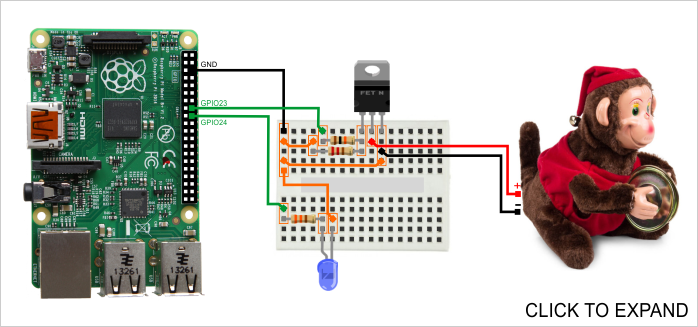
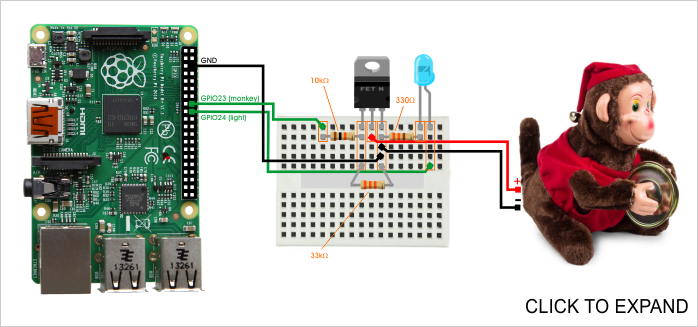
add LED parts to BOM, update diagram

diff --git a/www/tweetmonkey.html b/www/tweetmonkey.html
@@ -188,12 +188,22 @@
                                 <tr class="all">
                                     <td>1/4W 10k Resistor<br/><span style="font-size:8pt">You may rather buy a resistor kit and get a whole variety of resistance values.</span></td>
                                     <td>0.01&cent;</td>
-                                    <td><button><a href="http://www.digikey.com/product-detail/en/RS225/RS225-ND/7110">Digikey</a></button></td>
+                                    <td><button><a href="http://www.digikey.com/product-detail/en/CF14JT10K0/CF14JT10K0CT-ND/1830374">Digikey</a></button></td>
                                 </tr>
                                 <tr class="all">
                                     <td>1/4W 33k&ohm; Resistor<br/><span style="font-size:8pt">FYI, 33k&ohm; is a bit of an arbitrary value here. You could use pretty much any high value resistor.</span></td>
                                     <td>0.01&cent;</td>
-                                    <td><button><a href="http://www.digikey.com/product-detail/en/RS225/RS225-ND/7110">Digikey</a></button></td>
+                                    <td><button><a href="http://www.digikey.com/product-detail/en/CF14JT33K0/CF14JT33K0CT-ND/1830387">Digikey</a></button></td>
+                                </tr>
+                                <tr class="all">
+                                    <td>1/4W 330&ohm; Resistor<br/><span style="font-size:8pt">This is to keep the LED from burning out due to too much current.</span></td>
+                                    <td>0.01&cent;</td>
+                                    <td><button><a href="http://www.digikey.com/product-detail/en/CF14JT330R/CF14JT330RCT-ND/1830338">Digikey</a></button></td>
+                                </tr>
+                                <tr class="all">
+                                    <td>Blue LED<br/><span style="font-size:8pt">We use an LED as a visual indicator so we know when Tweet Monkey is on and ready.</span></td>
+                                    <td>0.59&cent;</td>
+                                    <td><button><a href="http://www.digikey.com/product-detail/en/VAOL-3MSBY2/VAOL-3MSBY2-ND/4935233">Digikey</a></button></td>
                                 </tr>
                                 <tr class="all">
                                     <td>2' 22-gauge wire<br/><span style="font-size:8pt">This wire is the right size for breadboard holes. You may want to <a type="amzn" asin="B00NB3U2BU">[click here]</a> to order 100' instead.</span></td>
